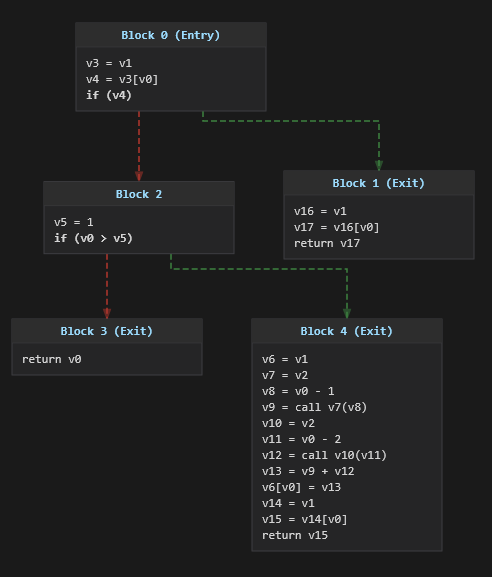
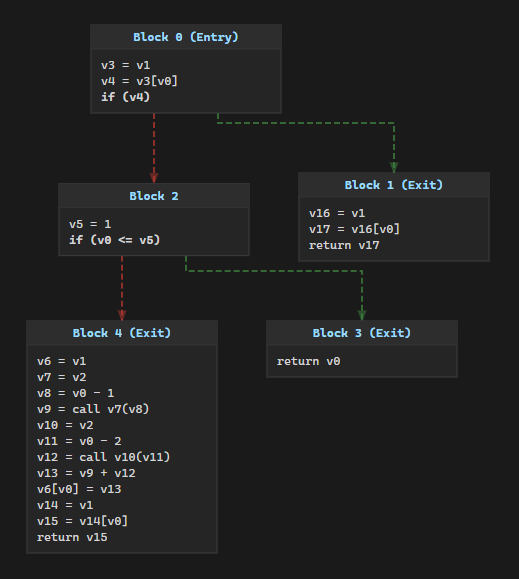
chore: update readme

diff --git a/README.md b/README.md
@@ -37,22 +37,24 @@ print(fib(24))
 Decompiled output:
 
 ```luau
+-- Decompiled by mallow 0.3.2
+
 local v0 = {}
 local v1 = nil
 local v2
 v2 = function(p0)
+    -- proto 0: upvalues = [v0, v2]
     if v0[p0] then
         return v0[p0]
+    elseif p0 <= 1 then
+        return p0
     else
-        if p0 > 1 then
-            v0[p0] = v2(p0 - 1) + v2(p0 - 2)
-            return v0[p0]
-        else
-            return p0
-        end
+        v0[p0] = v2(p0 - 1) + v2(p0 - 2)
+        return v0[p0]
     end
 end
 print(v2(24))
+return
 ```
 
 Control flow graph of the inner closure:
